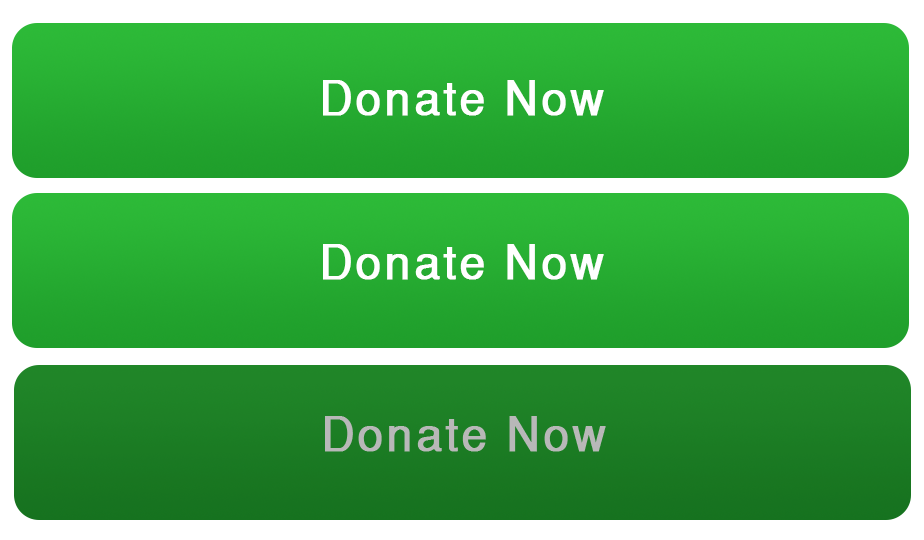
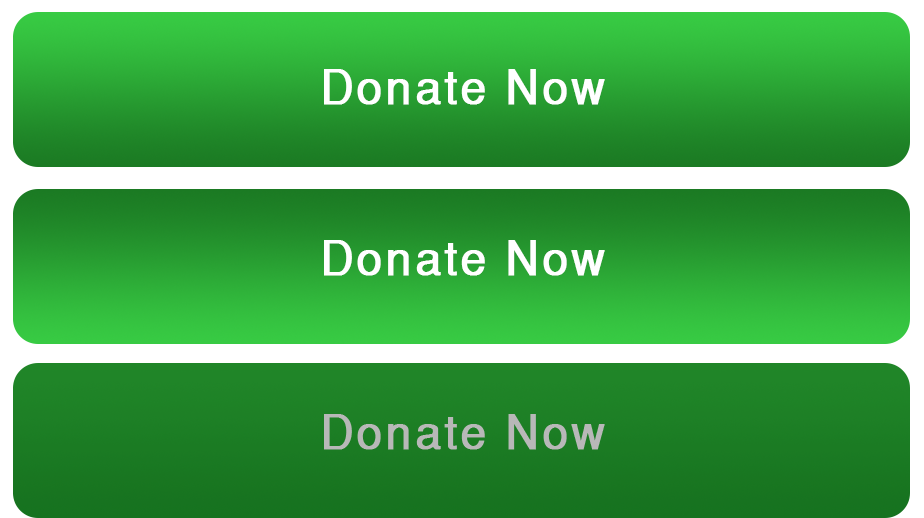
Added half of right side, corrected alignment
Modified the donate button a bit to fit the pixels

diff --git a/css/style.css b/css/style.css
@@ -1,9 +1,10 @@
 body
 {
     background-color: #fcf8f5;
-    margin: 0;
+    margin-top: 50px;
     padding: 0%;
 }
+/*------------------------Text and Menu on the Left Side------------------------------*/
 .text-description
 {
     font-family: sans-serif;
@@ -32,14 +33,6 @@ body
     font-weight: bold;
     line-height: 22px;
 
-}
-body .rightside
-{
-    margin-top: 70px;
-    float: right;
-    max-width: 240px;
-    height: auto;
-    margin-right: 150px;
 }
 body div hr
 {
@@ -85,4 +78,169 @@ body div ul li a:hover
     background-color: #fce7e4;
     color: #da0000;
     border-color: #fce7e4;
+}
+/*------------------------Donation selection box on the Right Side------------------------------*/
+body div.donbox div.boxborder 
+{
+    box-shadow: 1px 1px 7px rgba(117, 117, 117, 0.192);
+    position: relative;
+}
+body div.donbox div.boxborder img 
+{
+    position: relative;
+    top: -20px;
+    max-width: 45px;
+    height: auto;
+}
+body div.boxborder
+{
+    background-color: white;
+    font-family: sans-serif;
+    text-align: center;
+    margin-top: 70px;
+    float: right;
+    max-width: 500px;
+    height: auto;
+    margin-right: 150px;
+    border: solid white;
+    border-width: 0px 50px 30px;
+    border-radius: 15px;
+}
+body .boxborder h1
+{
+    float: inline-start;
+    font-size: 26px;
+}
+body .boxborder h5
+{
+    font-size: 15px;
+    line-height: 0px;
+    color: grey;
+}
+body div.donbox div.boxelements1
+{
+    display: block;
+    border: 1px dotted green;
+    background-color: #eeeeee;
+    float: left;
+    line-height: 1px;
+    font-size: 14px;
+    padding: 4px 10px;
+}
+body div.donbox div.boxelements1 h6
+{
+    color: grey;
+    line-height: 0px;
+}
+body div.donbox div.boxelements1 .recommend
+{
+    font-size: 12px;
+    color: #00ce00;
+    line-height: 1px;
+    font-weight: normal;
+    
+}
+body div.donbox div.boxelements2
+{
+    display: block;
+    border: 1px dotted green;
+    background-color: #eeeeee;
+    float: right;
+    line-height: 1px;
+    font-size: 14px;
+    padding: 4px 10px;
+}
+body div.donbox div.boxelements2 h6
+{
+    color: grey;
+    line-height: 6px;
+}
+body div.donbox div.boxelements1 .radio1
+{
+    opacity: 0%;
+}
+body div.donbox div.boxelements1 .label1
+{
+    position: absolute;
+    left: 47px;
+    height: 10px;
+    width: 10px;
+    background-color: #ffffff;
+    border-radius: 50%;
+    border: 4px solid #cfcfcf;
+}
+body div.donbox div.boxelements1 .radio1:hover + .label1
+{
+    position: absolute;
+    left: 47px;
+    height: 6px;
+    width: 6px;
+    background-color: #ffffff;
+    border-radius: 50%;
+    border: 6px solid #a0beff;
+}
+body div.donbox div.boxelements1 .radio1:checked + .label1
+{
+    position: absolute;
+    left: 47px;
+    height: 6px;
+    width: 6px;
+    background-color: #ffffff;
+    border-radius: 50%;
+    border: 6px solid #1761ff;
+}
+body div.donbox div.boxelements2 .radio
+{
+    opacity: 0%;
+}
+body div.donbox div.boxelements2 .label2
+{
+    position: absolute;
+    right: 47px;
+    height: 10px;
+    width: 10px;
+    background-color: #ffffff;
+    border-radius: 50%;
+    border: 4px solid #cfcfcf;
+}
+body div.donbox div.boxelements2 .radio:hover + .label2
+{
+    position: absolute;
+    right: 47px;
+    height: 6px;
+    width: 6px;
+    background-color: #ffffff;
+    border-radius: 50%;
+    border: 6px solid #a0beff;
+}
+body div.donbox div.boxelements2 .radio:checked + .label2
+{
+    position: absolute;
+    right: 47px;
+    height: 6px;
+    width: 6px;
+    background-color: #ffffff;
+    border-radius: 50%;
+    border: 6px solid #1761ff;
+}
+body div.donbox div.boxborder div.donatebutton
+{
+    text-align: center;
+}
+body div.donbox div.boxborder div.donatebutton a
+{
+    display: inline-block;
+    background: url(../images/donatebutton.png) no-repeat;   
+    width: 300px;
+    height: 55px;
+    background-size: 100%;
+    background-position: 0% 0%;
+}
+body div.donbox div.boxborder div.donatebutton a:hover
+{
+    background-position: 0% 50%;
+}
+body div.donbox div.boxborder div.donatebutton a:active
+{
+    background-position: 0% 100%;
 }

diff --git a/index.html b/index.html
@@ -27,6 +27,7 @@
             <br>business days. Questions or concerns? Please contact:
             <br>hello@tinkerhub.org
         </h5>
+        <br><br>
         <ul class="footer">
             <li>
                 <a href="home.html">Home</a>
@@ -42,13 +43,36 @@
             </li>
         </ul>
     </div>
-    <div class="rightside">
-        Put a div tag and add the box element here
-    </div>
-    <div>
+    <div class="donbox">
+        <div class="boxborder">
+            <img class="hearticon" src="images/heart.png">
+            <h1>Join us in changing lives</h1>
+            <h5>Donate as low as Rs. 100 per month</h5>
+            <div class="boxelements1">
+                <input type="radio" id="radio_1" class="radio1" name="payment" value="monthly">
+                <label for="radio_1" class="label1">
+                    <span class="selection"></span>
+                </label>
+                <h3>Monthly</h3>
+                <h6>Requires credit card</h6>
+                <h4 class="recommend">Recommended</h4>
+            </div>
+            <div class="boxelements2">
+                <input type="radio" id="radio_2" class="radio" name="payment" value="one-time">
+                <label for="radio_2" class="label2">
+                    <span class="selection"></span>
+                </label>
+                <h3>One-time</h3>
+                <h6>UPI, Net Banking, <br><br>all cards supported</h6>
+            </div>
+            <div class="donatebutton">
+                <a href=""></a>
+            </div>
+        </div>
         
+        
+
     </div>
-       
 </body>
 
 </html>
